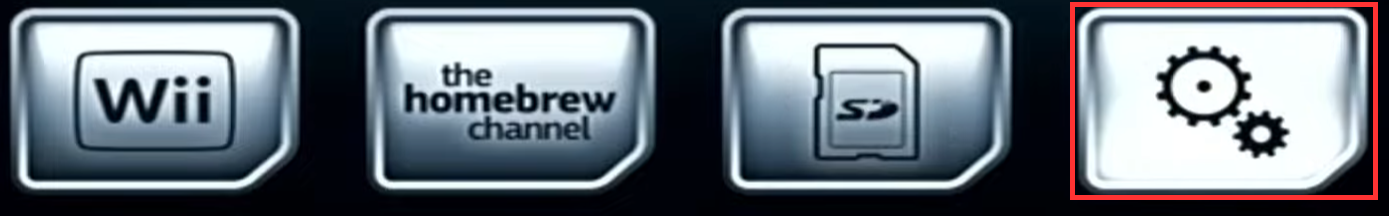
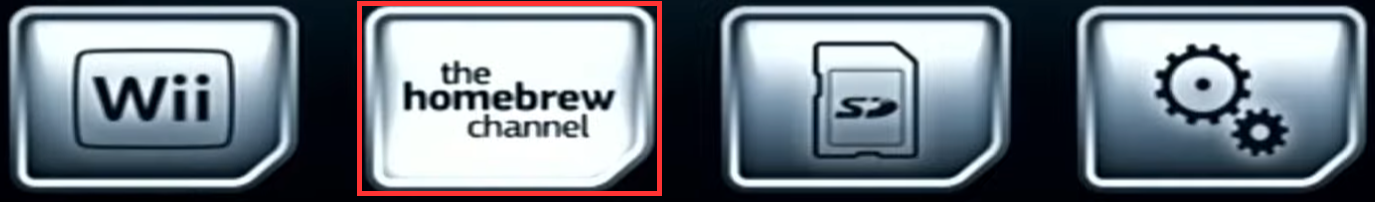
GITBOOK-15: No subject

diff --git a/docs/video-game-consoles/nintendo-wii/mod.md b/docs/video-game-consoles/nintendo-wii/mod.md
@@ -149,13 +149,84 @@ For each IOS package in the table below:
 2. Select 'Launch BootMii' and press Ⓐ on your controller.
 3. From the BootMii main menu, press the power button on your console several times until the gears tile is selected, then press the reset button on your console.
 
-<figure><img src="../../../.gitbook/assets/image.png" alt=""><figcaption></figcaption></figure>
+<figure><img src="../../../.gitbook/assets/image (7).png" alt=""><figcaption></figcaption></figure>
 
 4. Press the power button on your console several times until the backup NAND option is selected, then press the reset button on your console.
 
-<figure><img src="../../../.gitbook/assets/image (2).png" alt=""><figcaption></figcaption></figure>
+<figure><img src="../../../.gitbook/assets/image (2) (1).png" alt=""><figcaption></figcaption></figure>
 
 5. Wait for the backup process to complete. This process makes a NAND dump to your SD card which can be used to restore the console to stock should your console become bricked or you decide that you prefer a stock console.
 6. Once the process is complete you should see the following message, press the reset button on your console to continue.
 
 <figure><img src="../../../.gitbook/assets/image (8).png" alt=""><figcaption></figcaption></figure>
+
+7. From the BootMii menu, press the power button on your console several times until the back arrow tile is selected, then press the reset button on your console.
+
+<figure><img src="../../../.gitbook/assets/image.png" alt=""><figcaption></figcaption></figure>
+
+8. From the BootMii menu, press the power button on your console several times until the homebrew channel tile is selected, then press the reset button on your console.
+
+<figure><img src="../../../.gitbook/assets/image (1).png" alt=""><figcaption></figcaption></figure>
+
+### cIOS Installer
+
+1. From the homebrew channel menu, hover over 'd2x cIOS Installer' and press Ⓐ on your controller.
+2. Hover over 'Load' and press Ⓐ on your controller.
+
+#### IOS Install No. 1
+
+1. Using your controller, match the following settings.
+
+<figure><img src="../../../.gitbook/assets/image (2).png" alt=""><figcaption></figcaption></figure>
+
+4. Once the settings match, press Ⓐ on your controller.
+5. On the slots map page press Ⓐ again on your controller.
+6. Wait patiently whilst the IOS is installed. Once completed and the slots map page is showing, press Ⓐ on your controller to continue.
+
+#### IOS Install No. 2
+
+1. Using your controller, match the following settings.
+
+<figure><img src="../../../.gitbook/assets/image (4).png" alt=""><figcaption></figcaption></figure>
+
+2. Once the settings match, press Ⓐ on your controller.
+3. On the slots map page press Ⓐ again on your controller.
+4. Wait patiently whilst the IOS is installed. Once completed and the slots map page is showing, press Ⓐ on your controller to continue.
+
+#### IOS Install No. 3
+
+1. Using your controller, match the following settings.
+
+<figure><img src="../../../.gitbook/assets/image (5).png" alt=""><figcaption></figcaption></figure>
+
+2. Once the settings match, press Ⓐ on your controller.
+3. On the slots map page press Ⓐ again on your controller.
+4. Wait patiently whilst the IOS is installed. Once completed and the slots map page is showing, press Ⓐ on your controller to continue.
+
+#### IOS Install No. 4
+
+1. Using your controller, match the following settings.
+
+<figure><img src="../../../.gitbook/assets/image (6).png" alt=""><figcaption></figcaption></figure>
+
+2. Once the settings match, press Ⓐ on your controller.
+3. On the slots map page press Ⓐ again on your controller.
+4. Wait patiently whilst the IOS is installed. Once completed and the slots map page is showing, press Ⓐ on your controller to continue.
+5. We're now done with the IOS installations, press the Ⓑ button on your controller to exit.
+6. Turn off your console and remove the SD Card.
+
+## Post-Installation
+
+### BootMii Autostart
+
+We need to prevent the Wii from launching BootMii whenever the console turns on:
+
+1. Insert your SD Card into your computer.
+2. Rename the 'bootmii' folder to 'bootmii\_x'
+
+### Backup NAND Dump
+
+As discussed earlier in the guide, we created a NAND dump of the console, which will allow us to recover from a bricked system or restore the console to its original state. This process generated two files: 'keys.bin' and 'nand.bin.' Copy these files from the root of your SD card and store them in a secure location. I recommend creating a folder named 'Wii Backup' on your Google Drive and uploading the files there for safekeeping.
+
+
+
